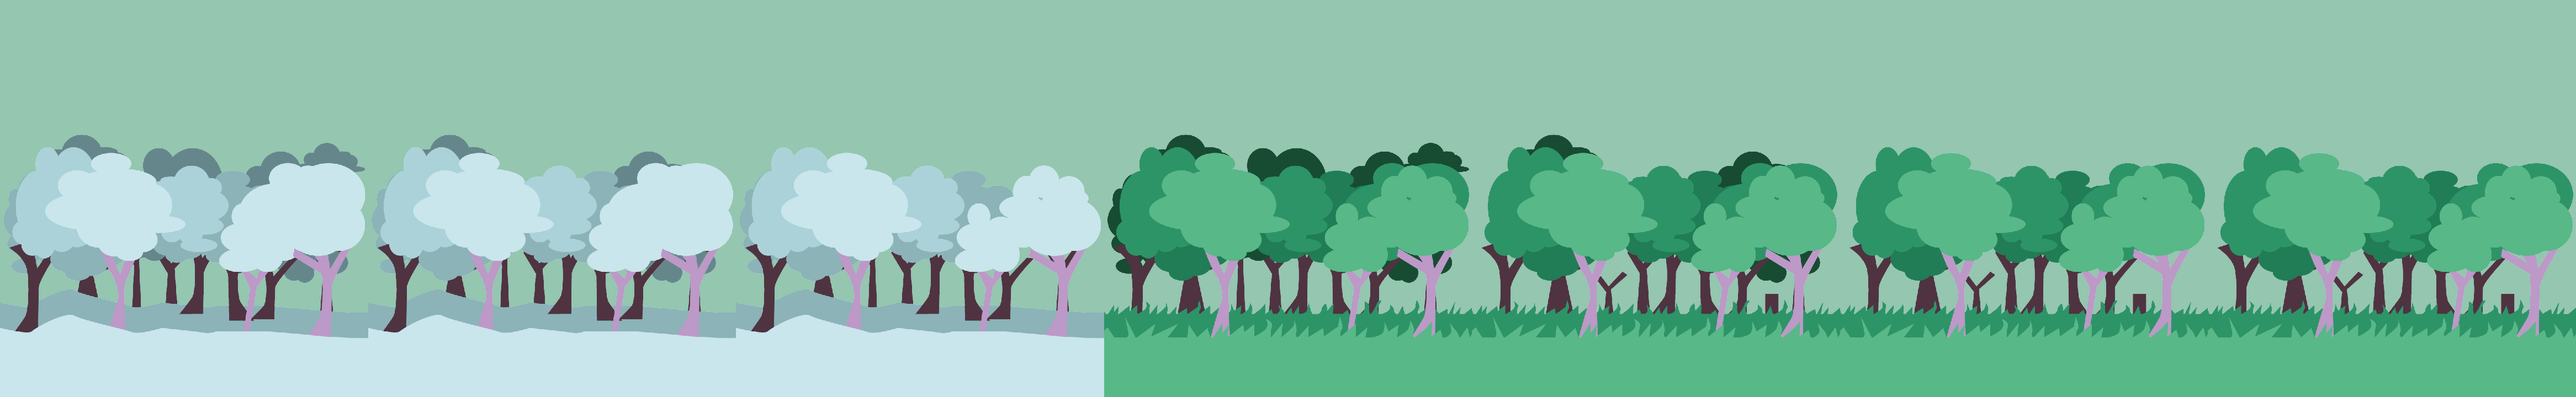
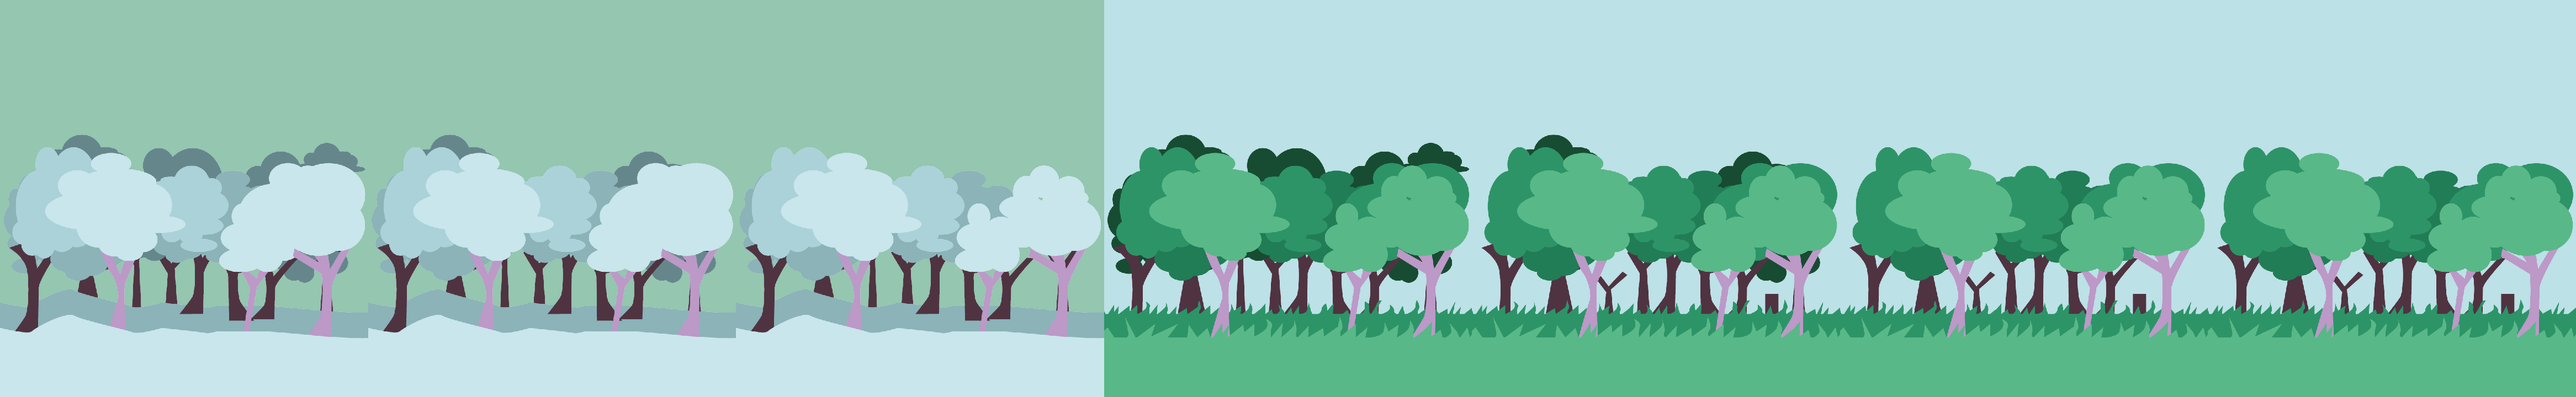
integrate level in game

Changed region(s): [[0.404, 0.0, 1.0, 0.7944]]

diff --git a/src/states/game.js b/src/states/game.js
@@ -26,7 +26,7 @@ gameState.prototype = {
         this.game.load.image('chopper', 'assets/prod/enemies/helicopter.png');
         this.game.load.image('lion', 'assets/prod/characters/lion.png');
         this.game.load.spritesheet('kaboom', 'assets/prod/effects/explosion.png', 512, 512, 8);
-        this.game.load.image('background', 'assets/prod/background.jpg');
+        this.game.load.image('background', 'assets/prod/background.png');
     },
 
     create: function () {
